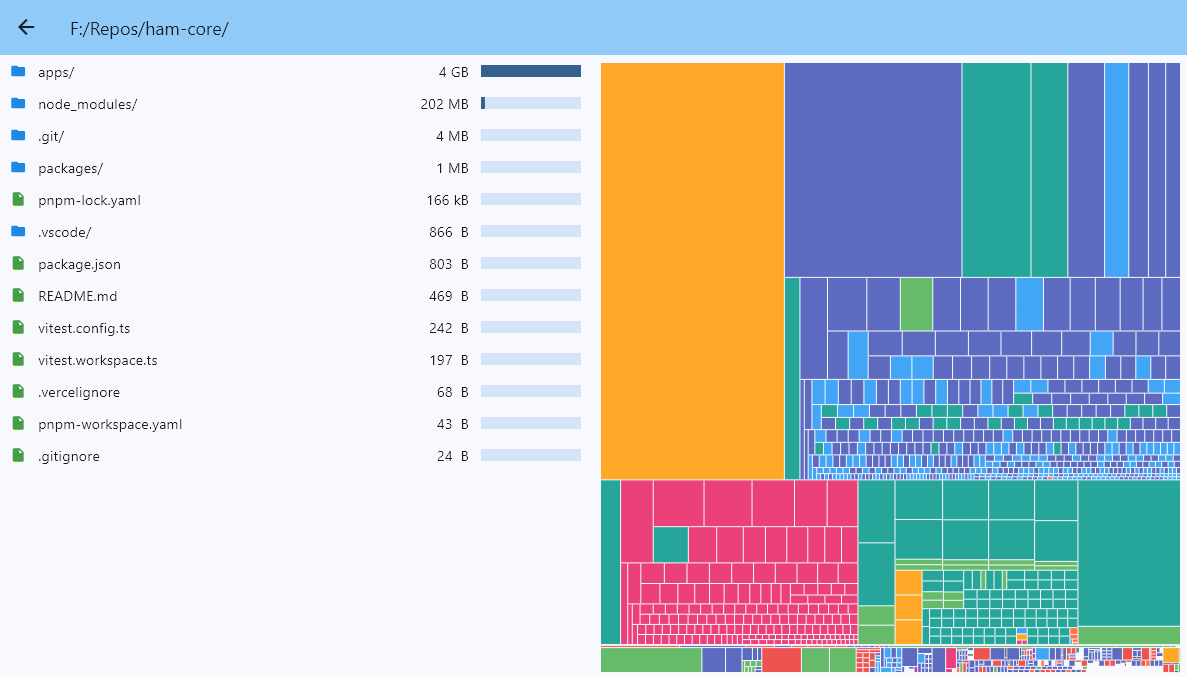
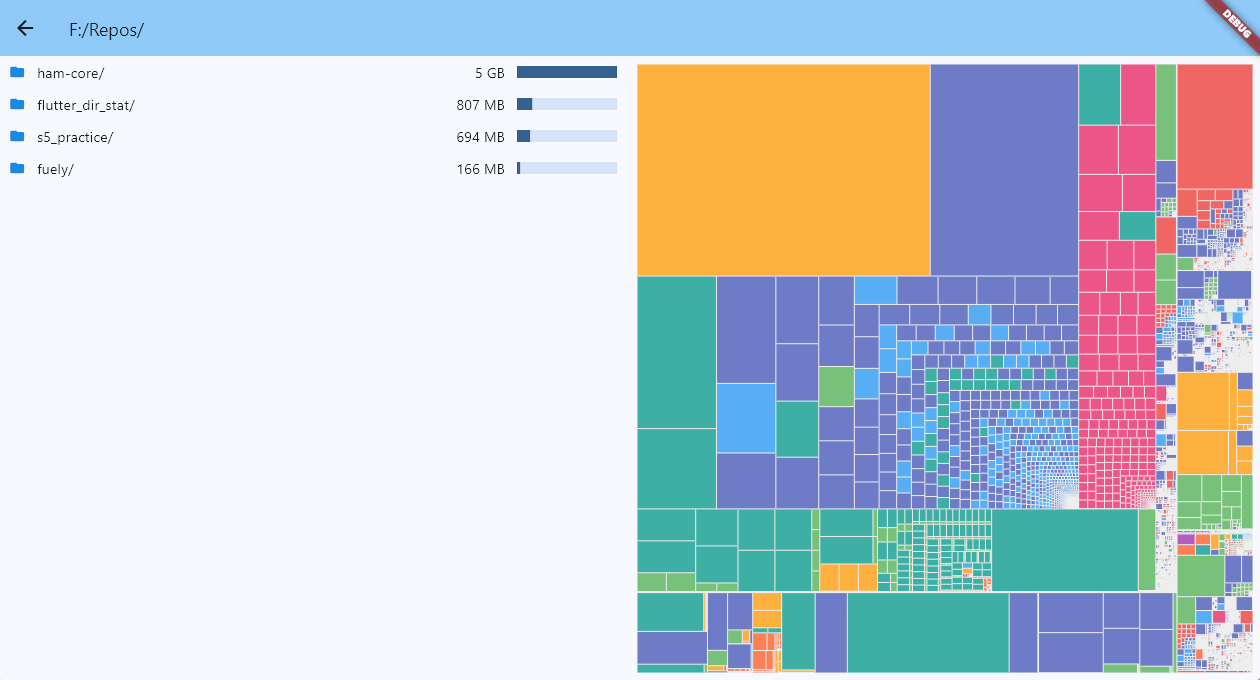
Better TreeMap layout

diff --git a/lib/src/components/treemap.dart b/lib/src/components/treemap.dart
@@ -3,100 +3,167 @@ import 'dart:collection';
 import 'package:flutter/material.dart';
 import 'package:flutter_dir_stat/src/fs_walker_entity.dart';
 
-class Treemap extends LeafRenderObjectWidget {
+class TreeMap extends StatelessWidget {
   final FsWalkerDir dir;
 
-  const Treemap(this.dir, {super.key});
+  const TreeMap(this.dir, {super.key});
 
   @override
-  RenderObject createRenderObject(BuildContext context) {
-    return TreemapRenderBox(dir);
-  }
-
-  @override
-  void updateRenderObject(BuildContext context, TreemapRenderBox renderObject) {
-    renderObject.dir = dir;
-  }
+  Widget build(BuildContext context) => CustomPaint(
+        painter: TreeMapPainter(dir),
+        size: Size.infinite,
+      );
 }
 
-class TreemapRenderBox extends RenderBox {
+class TreeMapPainter extends CustomPainter {
   FsWalkerDir dir;
 
-  TreemapRenderBox(this.dir);
+  TreeMapPainter(this.dir);
 
   @override
-  bool get sizedByParent => true;
-
-  @override
-  void performResize() {
-    size = constraints.biggest;
+  bool shouldRepaint(covariant CustomPainter oldDelegate) {
+    return false;
   }
 
   @override
-  Size computeDryLayout(covariant BoxConstraints constraints) {
-    return constraints.biggest;
-  }
+  void paint(Canvas canvas, Size size) {
+    final rect = Rect.fromLTWH(0, 0, size.width, size.height);
+    canvas.drawRect(rect, Paint()..color = Colors.grey.shade200);
 
-  @override
-  void paint(PaintingContext context, Offset offset) {
     final queue = Queue<QueueEntry>();
-    queue.add(QueueEntry(
-      Rect.fromLTWH(offset.dx, offset.dy, size.width, size.height),
-      dir,
-    ));
+    queue.add(QueueEntry(rect, dir));
 
     while (queue.isNotEmpty) {
       final entry = queue.removeFirst();
-      final rect = entry.rect;
+      Rect rect = entry.rect;
       final entity = entry.entity;
+
+      if (rect.hasNaN) continue;
 
       final width = rect.width;
       final height = rect.height;
+      if (width < 1 || height < 1) continue;
 
       if (entity is FsWalkerFile) {
         final ext = entity.name.split('.').last;
-        final paint = Paint()..color = colors[ext.hashCode % colors.length];
-        context.canvas.drawRect(rect, paint);
+        final paint = Paint()
+          ..color = colors[ext.hashCode % colors.length].withAlpha(0xe0);
+        canvas.drawRect(rect.deflate(.5), paint);
         continue;
       }
 
-      if (width < 1 || height < 1) {
+      if (entity is! FsWalkerDir) {
         final paint = Paint()..color = Colors.black;
-        context.canvas.drawRect(rect, paint);
+        canvas.drawRect(rect, paint);
         continue;
       }
 
-      double main = width > height ? width : height;
+      int totalSize = entity.children.fold(0, (t, e) => t + e.size);
 
-      var children = (entity as FsWalkerDir).children;
+      int i = 0;
+      final children = entity.children;
+      while (i < children.length && rect.width > 1 && rect.height > 1) {
+        final width = rect.width;
+        final height = rect.height;
 
-      int i = children.length;
-      while (i > 0 && (main - i + 1) * children[i - 1].size / entity.size < 1) {
-        --i;
-      }
+        final main = width > height ? width : height;
+        final cross = width > height ? height : width;
 
-      if (i == 0) {
-        final paint = Paint()..color = Colors.black;
-        context.canvas.drawRect(rect, paint);
-        continue;
-      }
+        final left = <FsWalkerEntity>[children[i]];
+        int leftSize = children[i].size;
+        int rightSize = totalSize - leftSize;
+        i++;
 
-      children = children.sublist(0, i);
-      int total = children.fold(0, (p, e) => p + e.size);
+        double best = double.infinity;
+        while (i < children.length) {
+          final child = children[i];
 
-      Offset o = Offset(rect.left, rect.top);
-      for (final child in children) {
-        --i;
-        final w = (main - i) * child.size / total;
-        main -= w + 1;
-        total -= child.size;
-        if (width > height) {
-          queue.add(QueueEntry(Rect.fromLTWH(o.dx, o.dy, w, height), child));
-          o = Offset(o.dx + w + 1, o.dy);
-        } else {
-          queue.add(QueueEntry(Rect.fromLTWH(o.dx, o.dy, width, w), child));
-          o = Offset(o.dx, o.dy + w + 1);
+          // Check aspect if placed in same col/row
+          final h = cross * child.size / (child.size + leftSize);
+          final w = main * (child.size + leftSize) / totalSize;
+          final aspect = h > w ? h / w : w / h;
+
+          // If worse, make new row/col
+          if (aspect > best) break;
+          best = aspect;
+
+          // Else add to current row/col
+          rightSize -= child.size;
+          leftSize += child.size;
+          left.add(child);
+          i++;
         }
+
+        final Rect leftRect;
+        final Rect rightRect;
+        if (width > height) {
+          leftRect = Rect.fromLTWH(
+            rect.left,
+            rect.top,
+            rect.width * leftSize / totalSize,
+            rect.height,
+          );
+          rightRect = Rect.fromLTRB(
+            leftRect.right, //rect.left + leftRect.width,
+            rect.top,
+            rect.right,
+            rect.bottom,
+          );
+        } else {
+          leftRect = Rect.fromLTWH(
+            rect.left,
+            rect.top,
+            rect.width,
+            rect.height * leftSize / totalSize,
+          );
+          rightRect = Rect.fromLTRB(
+            rect.left,
+            leftRect.bottom, //rect.top + leftRect.height,
+            rect.right,
+            rect.bottom,
+          );
+        }
+
+        {
+          Rect rect = leftRect;
+          final width = rect.width;
+          final height = rect.height;
+
+          for (final child in left) {
+            Rect curr;
+            if (width > height) {
+              curr = Rect.fromLTWH(
+                rect.left,
+                rect.top,
+                width * child.size / leftSize,
+                height,
+              );
+              rect = Rect.fromLTRB(
+                curr.right, //rect.left + curr.width,
+                rect.top,
+                rect.right,
+                rect.bottom,
+              );
+            } else {
+              curr = Rect.fromLTWH(
+                rect.left,
+                rect.top,
+                width,
+                height * child.size / leftSize,
+              );
+              rect = Rect.fromLTRB(
+                rect.left,
+                curr.bottom, //rect.top + curr.height,
+                rect.right,
+                rect.bottom,
+              );
+            }
+            queue.add(QueueEntry(curr, child));
+          }
+        }
+
+        rect = rightRect;
+        totalSize = rightSize;
       }
     }
   }

diff --git a/lib/src/fs_walker_entity.dart b/lib/src/fs_walker_entity.dart
@@ -31,8 +31,7 @@ class FsWalkerDir extends FsWalkerEntity {
   FsWalkerDir({required this.path, required this.dirs, required this.files});
 
   @override
-  late final int size = dirs.fold(0, (acc, dir) => acc + dir.size) +
-      files.fold(0, (acc, file) => acc + file.size);
+  late final int size = children.fold(0, (acc, c) => acc + c.size);
 
   @override
   String toString({int maxDepth = 255, int minSize = 0}) {

diff --git a/lib/src/pages/overview_page.dart b/lib/src/pages/overview_page.dart
@@ -55,7 +55,7 @@ class _OverviewPageState extends State<OverviewPage> {
                 Expanded(
                   child: Padding(
                     padding: const EdgeInsets.all(8),
-                    child: Treemap(widget.dir),
+                    child: TreeMap(widget.dir),
                   ),
                 ),
               ],
